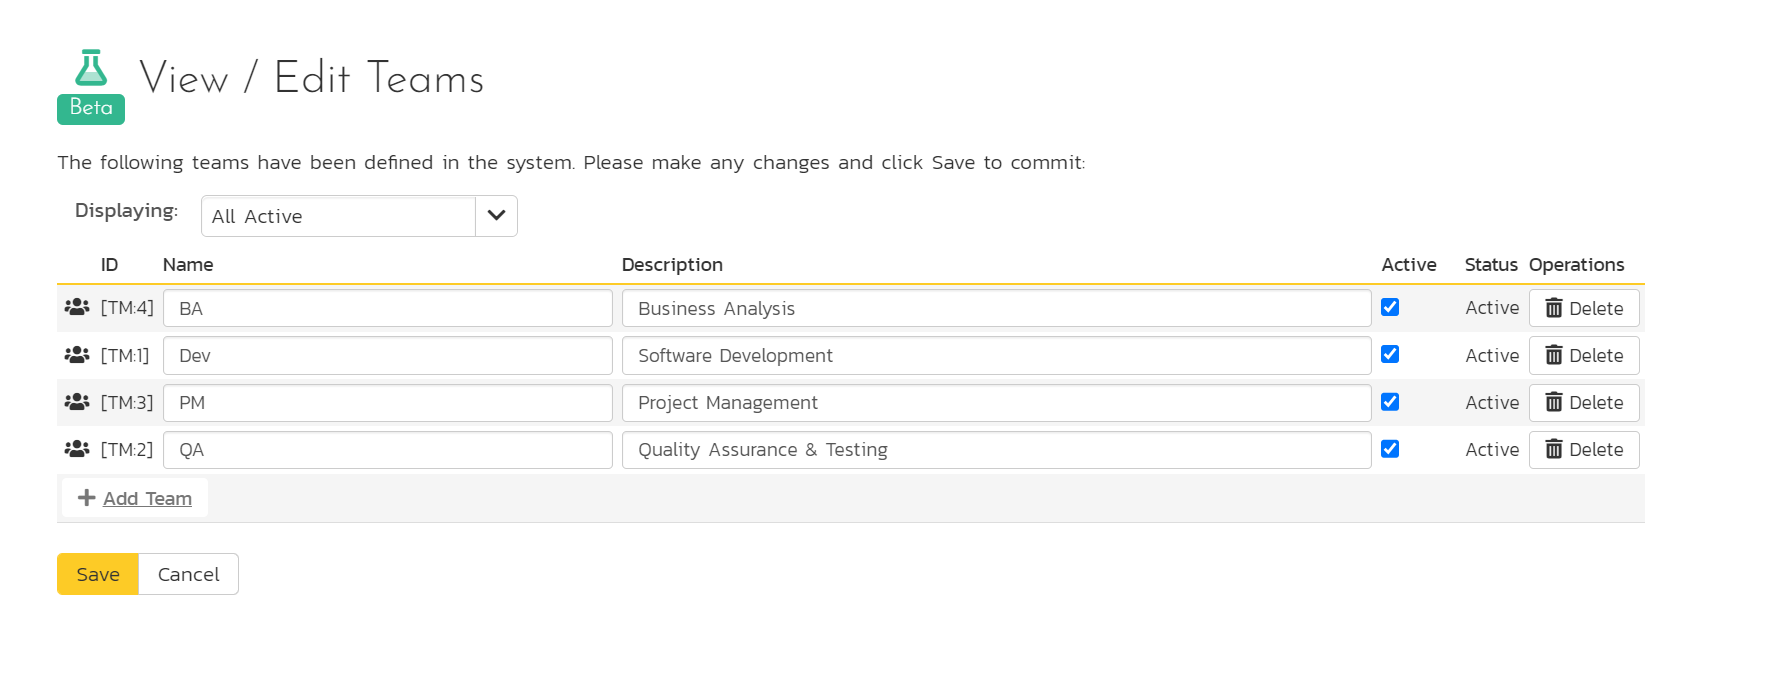
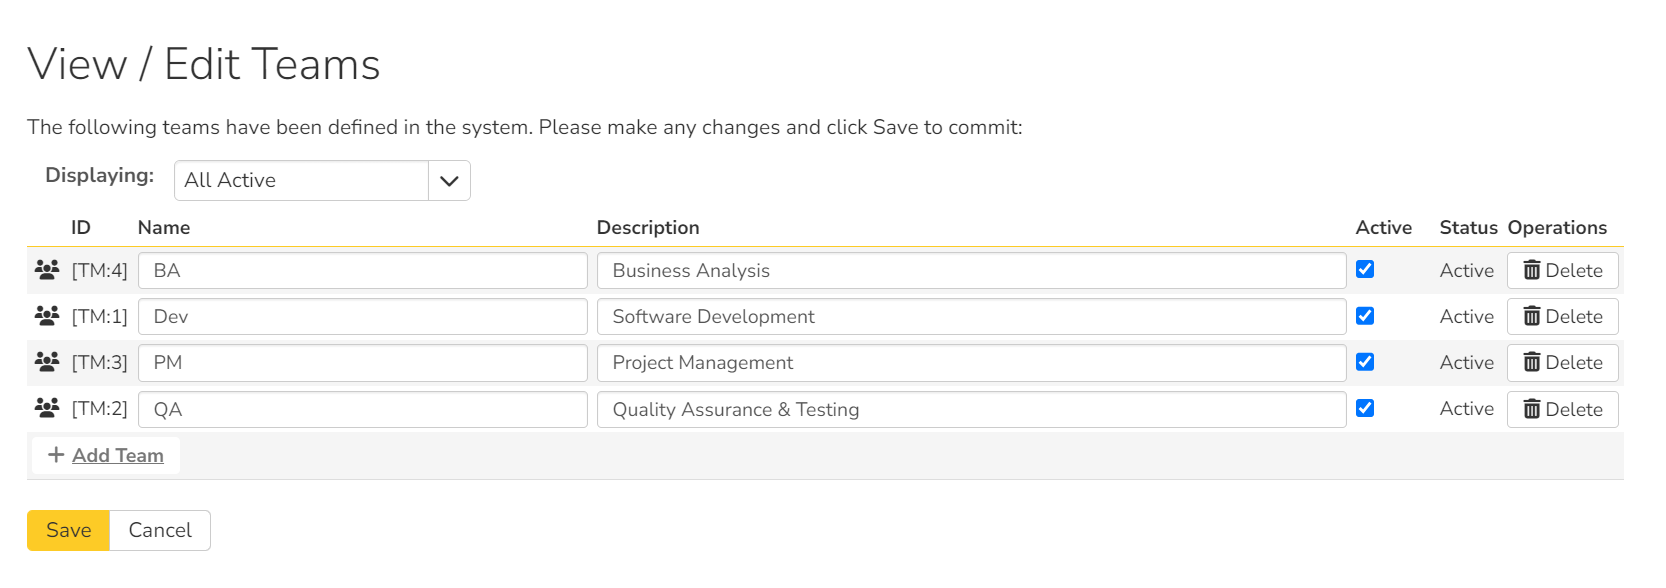
fixes reference to beta teams

Changed region(s): [[0.0, 0.3673, 0.9676, 0.949], [0.0, 0.0612, 0.6242, 0.3673]]

diff --git a/docs/Spira-Administration-Guide/System-Users.md b/docs/Spira-Administration-Guide/System-Users.md
@@ -274,8 +274,7 @@ This section lets you specify if the role allows users to add new documents to t
 
 
 ## View / Edit Teams
-!!! info "In beta, available in SpiraPlan only"
-    System admins [can enable](../Spira-Administration-Guide/System.md/#general-settings) beta functionality across the application for their users from the System Admin > General Settings page.
+!!! info "Available in SpiraPlan only"
 
 SpiraPlan lets you define a list of Teams. These teams are created system wide, and product members can then be assigned any active team on a product by product basis. You can use these teams in different ways in different products, but the most common way is to group people together based on your organizational or functional structure.
 
